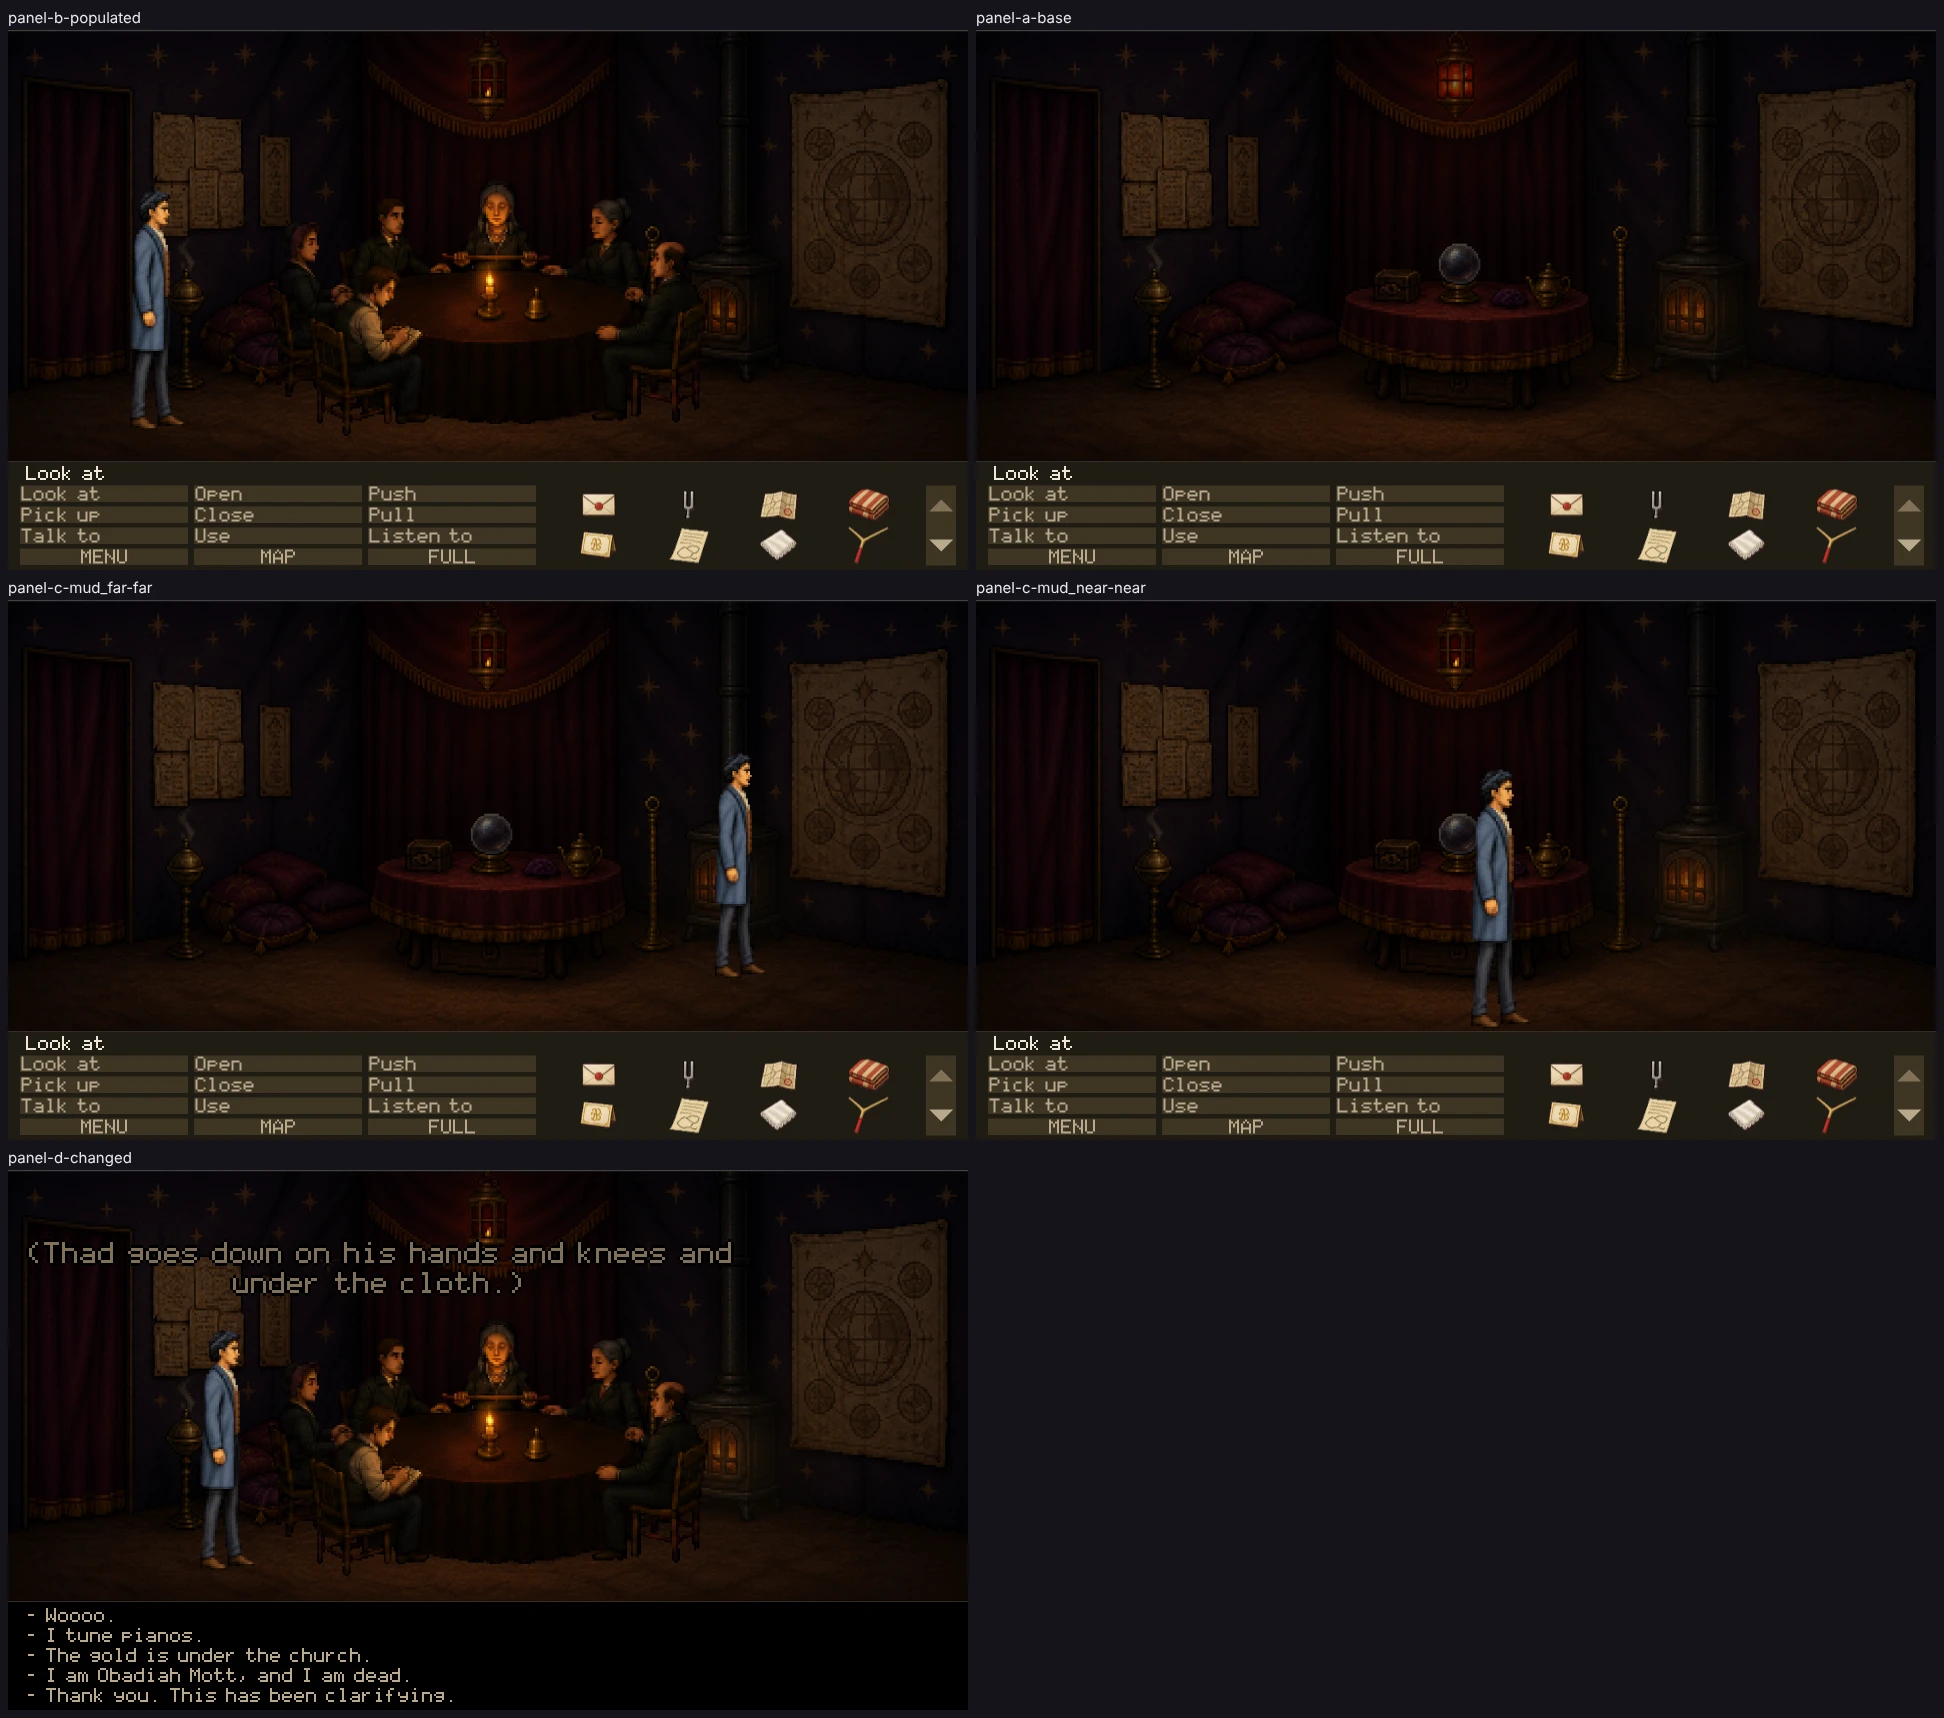
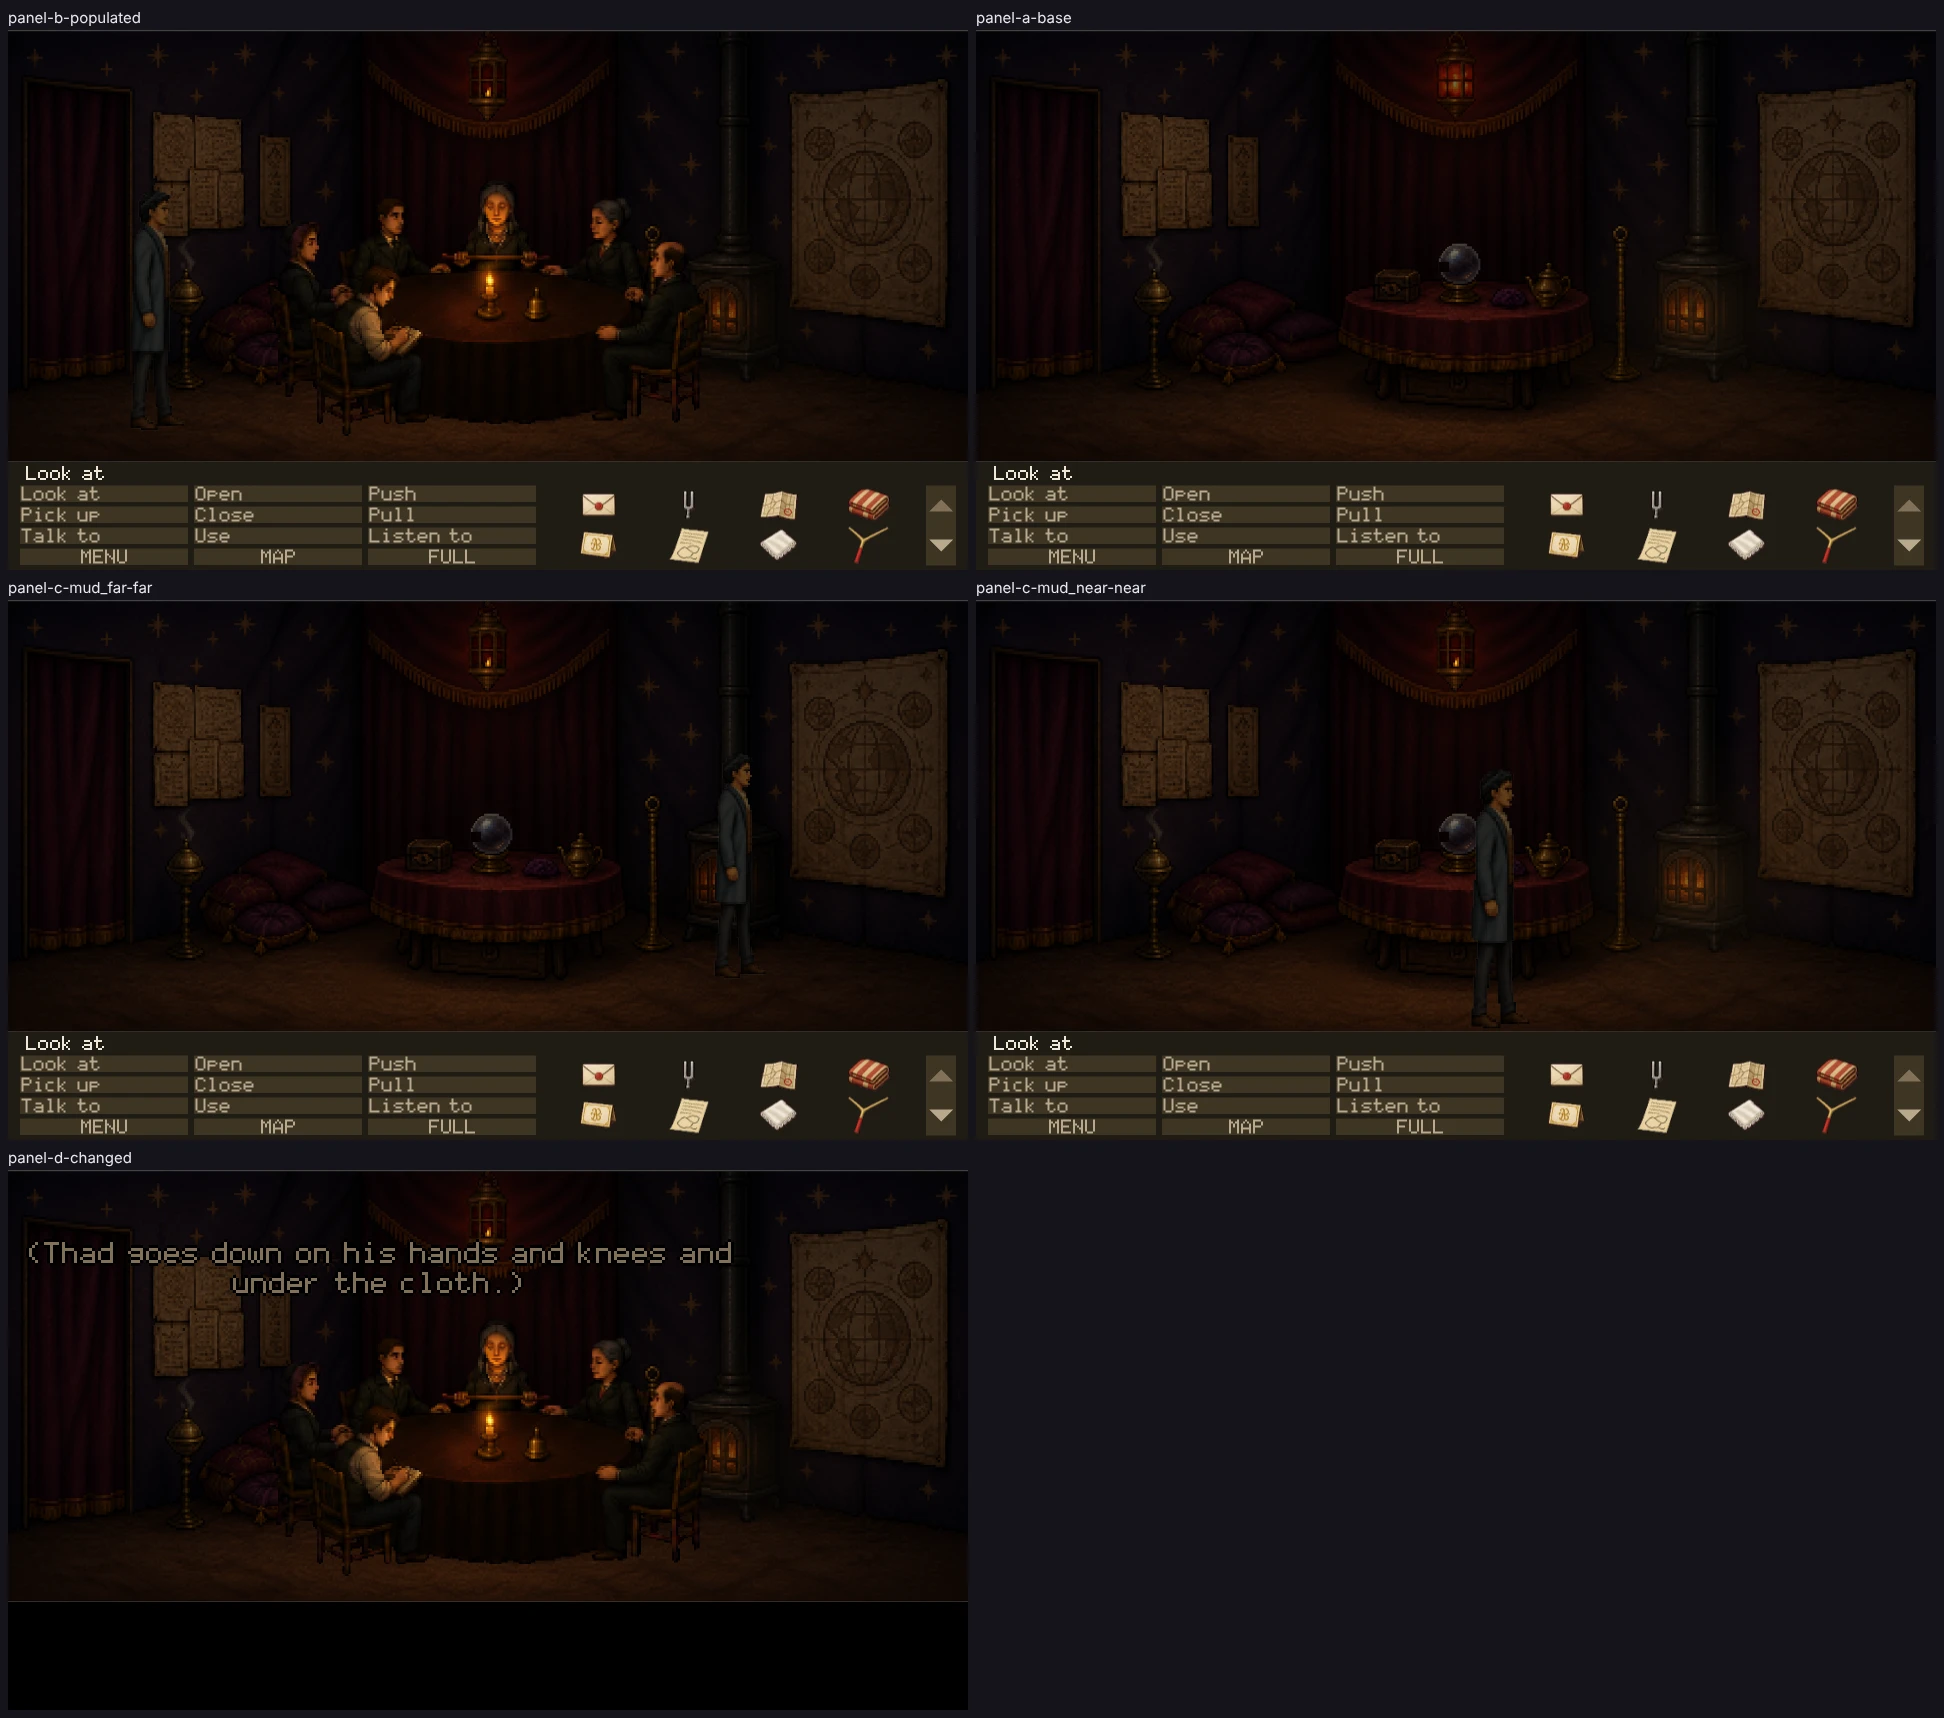
Errata 239: the dark séance proof re-run
Claude-Session: https://claude.ai/code/session_01FXbCus2Hm36NL2YuHFGB8T

diff --git a/renders/proofs/seance-dark/index.html b/renders/proofs/seance-dark/index.html
@@ -17,7 +17,7 @@
 </style>
 <h1>ozymandias_tent — four-panel live-runtime proof</h1>
 <p class="lede">Every frame below is the full play area as the renderer drew it, in the running
-game, at <code>1be8e8aa</code> on <code>scenes-bc-art</code>.
+game, at <code>ec9c25f0</code> on <code>seance-polish</code>.
 No crop, isolated sprite or source image appears here: those are for diagnosing what a full
 frame has already shown.</p>
 <p class="lede"><b>These panels establish technical admissibility only.</b> Nothing here says the
@@ -57,7 +57,7 @@ art is good, in style, funny or approved. Only Tyler sets <code>visual_accepted<
     <img src="raw-captures-ignored/panel-d-changed.png" alt="" onerror="this.replaceWith(Object.assign(
       document.createElement('p'), { className: 'gone', textContent:
       'raw capture not committed -- regenerate with: npm run proof ' + "ozymandias_tent" }))">
-    <figcaption><b>PANEL D &mdash; principal changed state: USE THE SÉANCE TABLE in the dark (doc 111): T_UNDER_TABLE, and THE SÉANCE begins. Visible consequence: his direction going under the cloth over the dark tent, SEA_E1 offered beneath. The rest of THE SÉANCE is queued behind the open conversation and the route cannot read it on (errata 238 reports it); Frame writing as the table turns is held by tests/scenes-bc-art.test.ts.</b>
+    <figcaption><b>PANEL D &mdash; principal changed state: USE THE SÉANCE TABLE in the dark (doc 111): T_UNDER_TABLE. Visible consequence: his direction going under the cloth over the dark tent, Thad no longer drawn (the tent's actorHiddenWhen), and no list of options under the line: SEA_E1 is owed until the lines and THE SÉANCE have been read (errata 239).</b>
       <span>room ozymandias_tent &middot; camera 0 &middot;
         flags T_OPENING_SAID T_COACH_DEPARTED T_UNDERTAKER_NAMED T_HOB_CROSSING T_THAD_LEAVING T_HOB_SPOKEN T_HOB_GONE T_PIKE_DEAD T_OPENING_DONE T_SEEN_MAIN_STREET T_TUNES_PIANOS T_SWINDLED T_CASE_DOWN T_CASE_TAKEN T_BORDERS_MOTT T_ASSAY_QUEUE T_NO_MOTT_GOLD T_SECOND_LEDGER T_VESSEL_OPENED T_OFFICE_TOPIC T_VESSEL_FOUND T_GULCH_TRIP T_GULCH_HOME T_ROD_HIRED T_DUEL_ONE_LOST T_DUEL_TWO_WON T_ASSAY_ADJOURNED ASSAY_PAIR_01 ASSAY_PAIR_02 ASSAY_PAIR_03 ASSAY_PAIR_04 ASSAY_PAIR_05 ASSAY_PAIR_06 ASSAY_PAIR_07 ASSAY_PAIR_08 ASSAY_PAIR_09 ASSAY_PAIR_10 ASSAY_PAIR_11 ASSAY_PAIR_12 ASSAY_PAIR_13 ASSAY_PAIR_14 ASSAY_PAIR_15 ASSAY_PAIR_16 ASSAY_PAIR_17 ASSAY_PAIR_18 ASSAY_PAIR_19 ASSAY_PAIR_20 ASSAY_PAIR_21 ASSAY_PAIR_25 ASSAY_PAIR_26 T_VESSEL_GREETED T_SURVEY_NEEDED T_DEED_LODGED T_SURVEY_LODGED T_OZY_GREETED T_PANNER_GREETED T_FRAME_MET T_NINETY_DAYS T_SUMP_DOCUMENTS_HEARD T_MOTT_FACE_UNKNOWN T_FANSHAWE_FUNERALS T_MEMORIAL_BOOKED T_VESSEL_LOCATION T_DINED T_CLAIM1_BLANK T_EXCAVATION_CLAUSE T_QUEUE_PADDED T_EMPTY_OFFICE_SEEN T_SEANCE_ON T_SEANCE_ARRIVED T_SEANCE_DARK T_UNDER_TABLE T_HUM_HEARD T_GRIEVANCE_MOTT T_BLANKET_BORROWED T_OZY_ASKED T_OZY_PAID T_SOW_FUNERAL_ASKED T_SHENG_TASK T_PRATT_TRAIL T_ROOM_GRANTED T_WARM_HOLE T_PRATT_PAID T_PRATT_TURNED T_PRATT_STAKE T_PRATT_JUMP_SEEN T_PRATT_JUMP_HEARD T_PRATT_SWEARS T_SEEN_CLAIMS_ROAD T_SHENG_HOLDS_PAPER T_SHENG_PAPER_HEARD T_ASSAY_ASKED T_ASSAY_BACK T_ASSAY_RETURNED T_ATTESTED T_PLATE_AT_GATE T_LINEN_COLLECTED T_CUTAWAY_CLARION T_CUTAWAY_PRATT T_CUTAWAY_FANSHAWE T_WASHOUT_SEEN T_MINE_ENTERED T_MINE_CROSSED T_LEDGE_SEEN T_CAMP_TRUSTS T_DEACON_FOUND T_PLANK_SEAT T_GROG_SEEN T_GULCH_MESSAGE_UP T_GULCH_MESSAGE_DOWN &middot;
         inventory letter tuning_fork company_map blanket invitation third_copy handkerchief brass_rod padded_log photograph document_b document_d document_a watch document_c deed</span>
@@ -68,15 +68,15 @@ art is good, in style, funny or approved. Only Tyler sets <code>visual_accepted<
     <img src="raw-captures-ignored/panel-c-mud_far-far.png" alt="">
     <figcaption><b>PANEL C &mdash; mud_far far, authored y756</b>
       <span>expected 449px &middot; runtime 449px &middot;
-        silhouette 449px, bottom y755</span>
-      <span>art/actors/thad-idle-right/idle-00.png</span>
+        silhouette 450px, bottom y756</span>
+      <span>art/actors/thad-idle-right/idle-01.png</span>
     </figcaption>
   </figure>
   <figure>
     <img src="raw-captures-ignored/panel-c-mud_near-near.png" alt="">
     <figcaption><b>PANEL C &mdash; mud_near near, authored y857</b>
       <span>expected 518px &middot; runtime 518px &middot;
-        silhouette 518px, bottom y856</span>
-      <span>art/actors/thad-idle-right/idle-04.png</span>
+        silhouette 519px, bottom y857</span>
+      <span>art/actors/thad-idle-right/idle-05.png</span>
     </figcaption>
   </figure>
